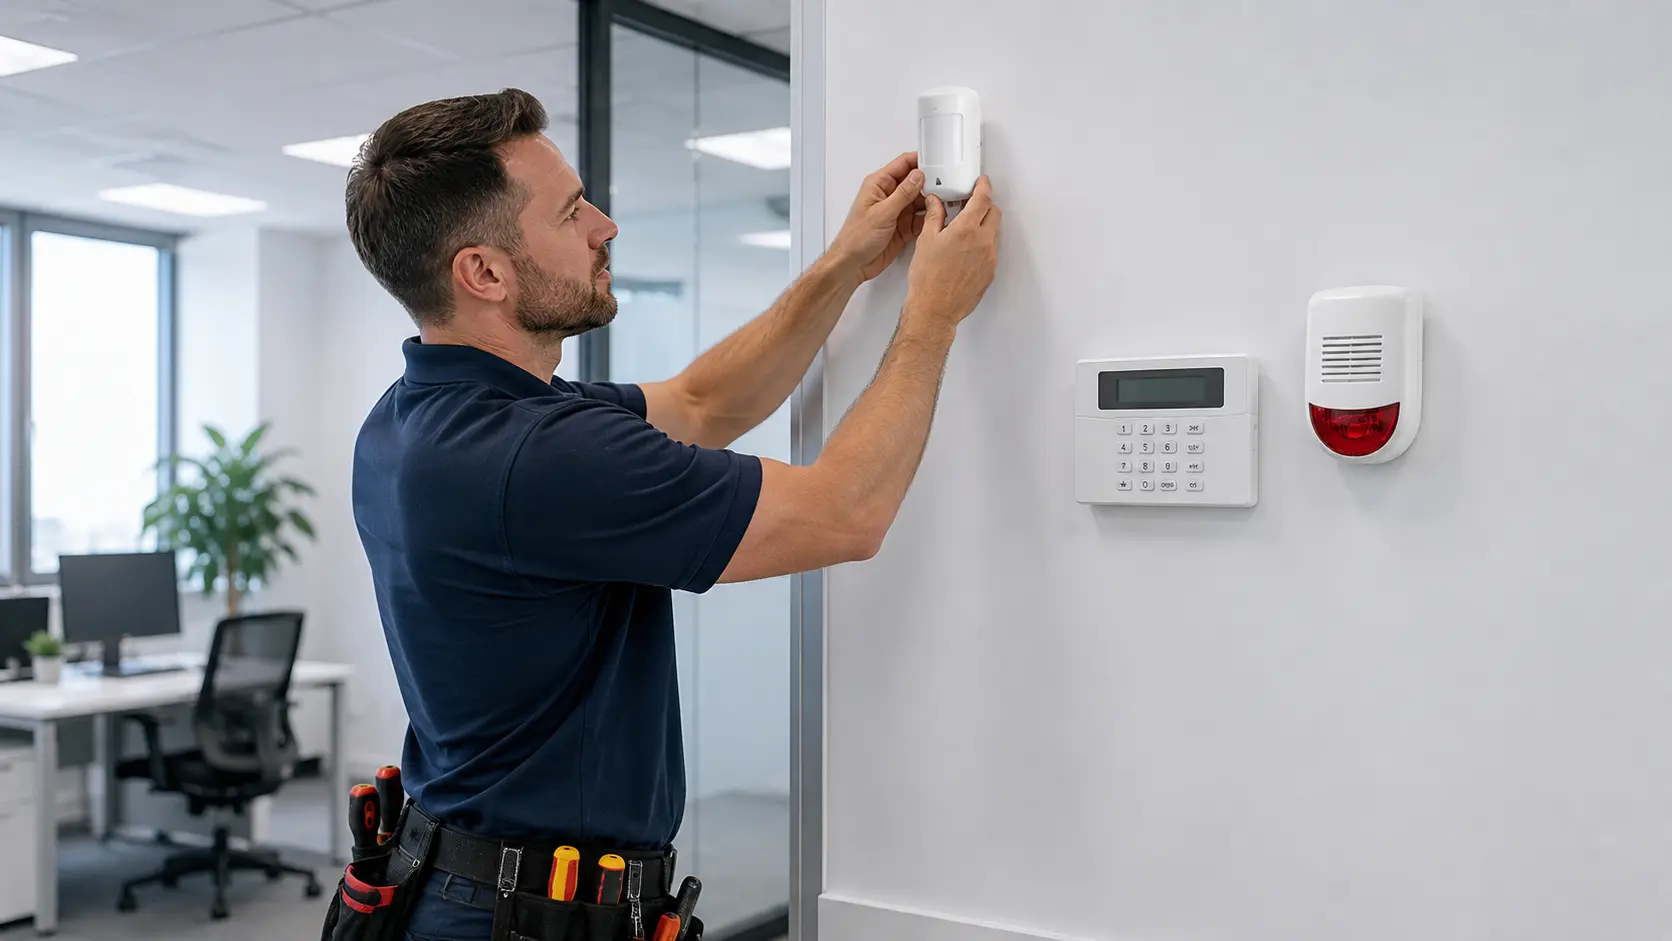
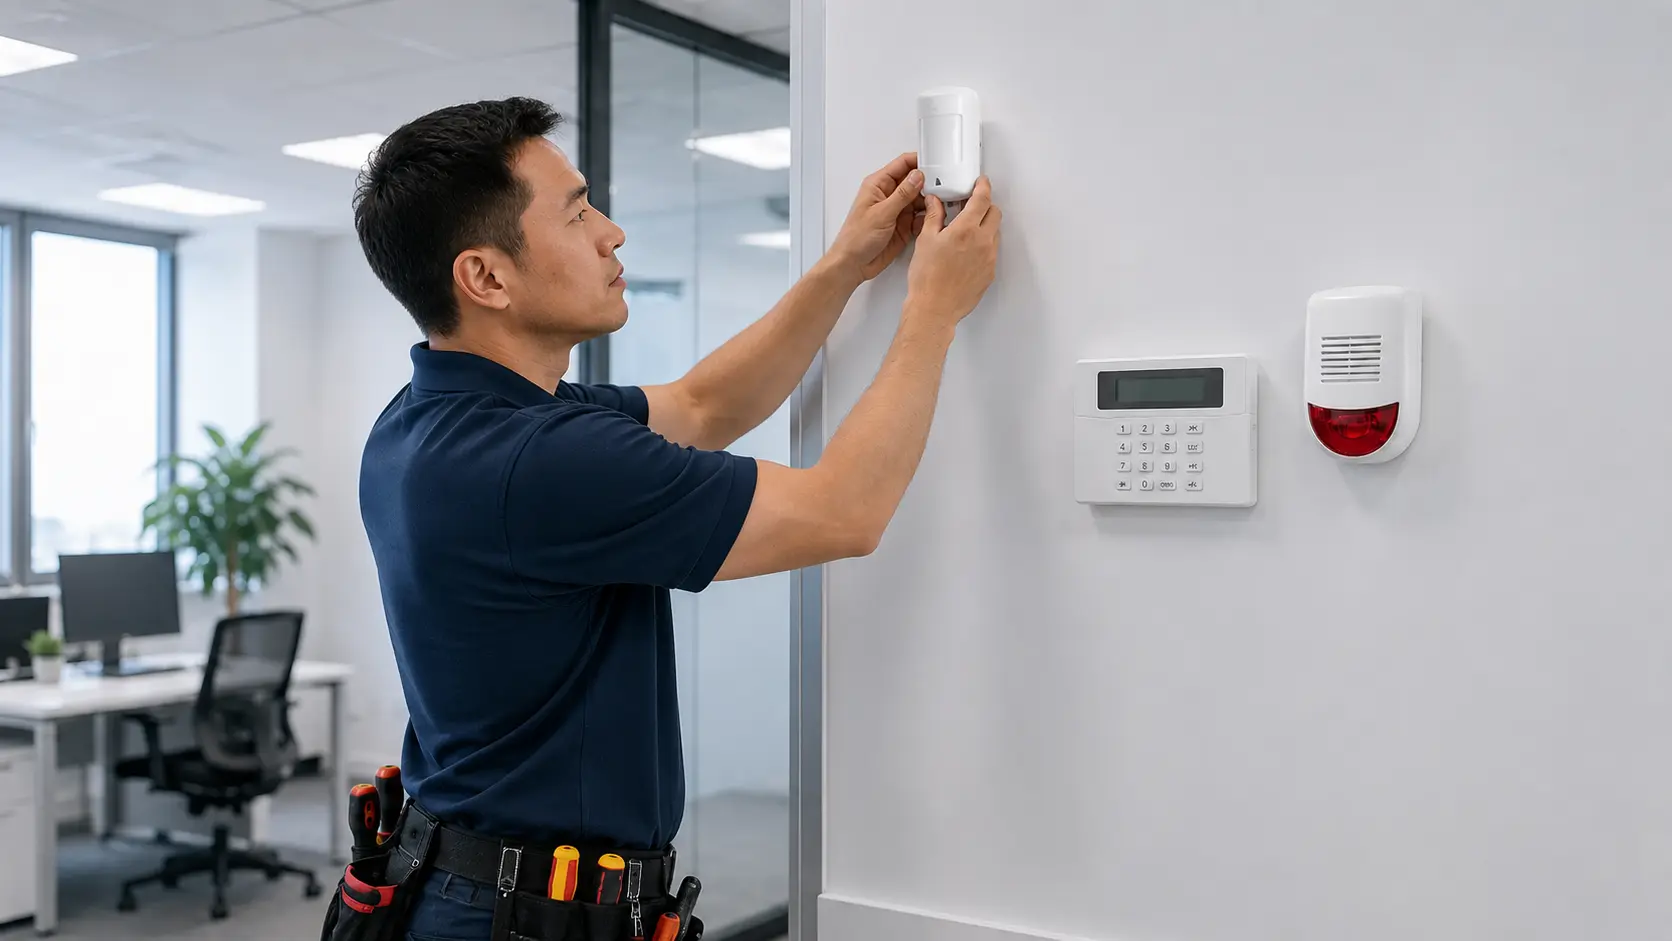
Add privacy-safe CCTV project and Asian alarm installer

diff --git a/script.js b/script.js
@@ -59,6 +59,10 @@ Object.assign(zh,{
  'WELCOME · ABOUT MOBIT':'欢迎 · 认识 MOBIT','Since 2003, Penang businesses have trusted us to supply, install and support their IT, network and security systems.':'自 2003 年，我们为槟城企业供应、安装及支援 IT、网络和保安系统。','Meet Our Team':'联系我们团队',
  "WELCOME · LET'S GET STARTED":'欢迎 · 让我们开始','Choose quotation or service appointment. WhatsApp us your details and we will reply with the next step.':'选择报价或服务预约，通过 WhatsApp 提交资料，我们会回复下一步。','Request Quotation':'索取报价','Book Service':'预约服务','WhatsApp Quotation':'WhatsApp 报价','Service Appointment':'服务预约'
 });
+Object.assign(zh,{
+ 'Business Alarm Systems':'商业防盗警报系统','Choose HIKVISION with Hik-Connect app control, Vivos with convenient remotes, or an expandable Paradox system for commercial premises.':'可选择支持 Hik-Connect 手机应用的 HIKVISION、方便遥控操作的 Vivos，或适合商业场所扩充的 Paradox 系统。',
+ 'COMMERCIAL CCTV MONITORING':'商业 CCTV 集中监控','One screen. Complete site visibility.':'一个屏幕，集中掌握现场情况。','We configured a multi-camera CCTV monitoring system so the customer can review important areas from one central display.':'我们配置多摄像头 CCTV 监控系统，让客户可通过一个中央屏幕查看重要区域。','The completed setup provides clearer day-to-day oversight and makes camera checking more convenient. All live views shown here are blurred to protect the customer’s location, people and activities.':'完成后的系统让日常监控和摄像头检查更方便。画面已进行模糊处理，以保护客户地点、人员和活动隐私。'
+});
 const original=new WeakMap();
 function setLanguage(lang){
  document.documentElement.lang=lang==='zh'?'zh-Hans':'en';

diff --git a/projects.html b/projects.html
@@ -88,6 +88,11 @@
         <div class="project-photos single-photo"><img src="assets/project-cctv-troubleshooting-privacy.webp" alt="Mobit Solution technician troubleshooting a commercial CCTV system with customer camera views blurred for privacy" loading="lazy"></div>
         <div class="project-copy"><span>CCTV TROUBLESHOOTING &amp; RESTORATION</span><h3>Finding faults and restoring camera coverage.</h3><p>The customer’s CCTV monitor showed several channels without video. Our technician checked the recorder, power connections and camera cabling to identify the affected points.</p><p>Systematic troubleshooting helps restore dependable monitoring and confirms which equipment or connections require further attention. Live camera views are blurred here to protect customer privacy.</p></div>
       </article>
+
+      <article class="project-card">
+        <div class="project-photos single-photo"><img src="assets/project-commercial-cctv-monitoring-privacy.webp" alt="Commercial multi-camera CCTV monitoring system with all live views blurred to protect customer privacy" loading="lazy"></div>
+        <div class="project-copy"><span>COMMERCIAL CCTV MONITORING</span><h3>One screen. Complete site visibility.</h3><p>We configured a multi-camera CCTV monitoring system so the customer can review important areas from one central display.</p><p>The completed setup provides clearer day-to-day oversight and makes camera checking more convenient. All live views shown here are blurred to protect the customer’s location, people and activities.</p></div>
+      </article>
     </div>
 
     <p class="project-note">Every business site is different. Mobit Solution recommends equipment and installation methods based on the location, daily operation and practical budget—not a one-size-fits-all package.</p>
